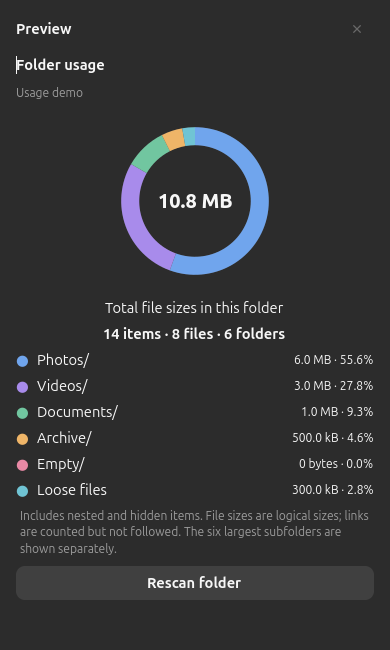
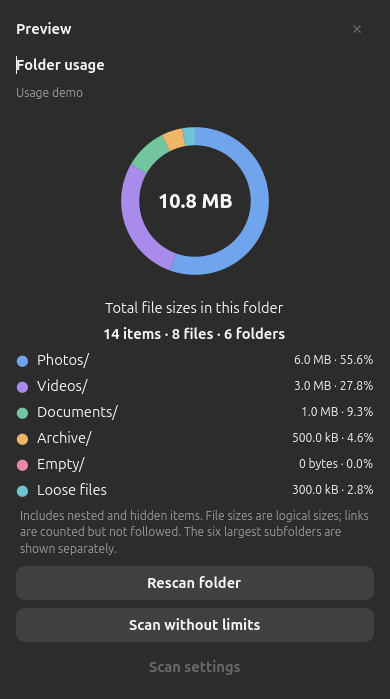
Configure folder usage limits and allow per-scan bypass

diff --git a/src/nautilus-preview-pane.c b/src/nautilus-preview-pane.c
@@ -38,13 +38,13 @@ struct _NautilusPreviewPane
     GtkLabel *message;
     GtkDrawingArea *storage_chart;
     GtkLabel *storage_label, *storage_percent, *overview_counts;
-    GtkWidget *overview_rows[NAUTILUS_USAGE_SEGMENTS], *overview_refresh;
+    GtkWidget *overview_rows[NAUTILUS_USAGE_SEGMENTS], *overview_refresh, *overview_bypass;
     GtkLabel *overview_names[NAUTILUS_USAGE_SEGMENTS], *overview_values[NAUTILUS_USAGE_SEGMENTS];
     GFile *overview_location;
     GListModel *overview_model;
     gulong overview_changed;
     guint overview_source;
-    gboolean overview_active, overview_loading;
+    gboolean overview_active, overview_loading, usage_bypass;
     GTask *overview_task;
     NautilusUsageResult usage_result;
     gint64 usage_checked;
@@ -143,16 +143,20 @@ overview_render (NautilusPreviewPane *self)
 {
     NautilusUsageResult *result = &self->usage_result;
     g_autofree char *size = g_format_size (result->bytes);
-    gtk_label_set_text (self->storage_percent, size);
+    g_autofree char *display_size = result->partial || result->running ? g_strdup_printf ("≥ %s", size) : g_strdup (size);
+    gtk_label_set_text (self->storage_percent, display_size);
     gtk_label_set_text (self->storage_label,
         result->unreadable ? "Unable to read this folder." :
-        result->running ? "Scanning… sizes and shares so far" :
+        result->running ? (self->usage_bypass ? "Scanning without item/time limits… sizes so far" : "Scanning… sizes and shares so far") :
         result->cancelled ? "Scan stopped — totals are partial." :
-        result->partial ? "Partial totals — some paths were unreadable or a scan limit was reached." :
+        result->depth_limited ? "Partial totals — a folder exceeds the supported nesting depth." :
+        result->limited ? "Partial totals — item/time limit reached. Scan without limits to recalculate." :
+        result->partial ? "Partial totals — some paths could not be read." :
         result->files + result->folders == 0 ? "This folder is empty." : "Total file sizes in this folder");
     guint64 items = result->files + result->folders;
     g_autofree char *counts = g_strdup_printf ("%" G_GUINT64_FORMAT " items · %" G_GUINT64_FORMAT
-        " files · %" G_GUINT64_FORMAT " folders", items, result->files, result->folders);
+        " files · %" G_GUINT64_FORMAT " folders%s", items, result->files, result->folders,
+        result->partial || result->running ? " · counted so far" : "");
     gtk_label_set_text (self->overview_counts, counts);
     for (guint i = 0; i < NAUTILUS_USAGE_SEGMENTS; i++)
     {
@@ -167,6 +171,7 @@ overview_render (NautilusPreviewPane *self)
         gtk_label_set_text (self->overview_values[i], value);
     }
     gtk_button_set_label (GTK_BUTTON (self->overview_refresh), result->running ? "Stop scan" : "Rescan folder");
+    gtk_widget_set_sensitive (self->overview_bypass, !result->running && !self->overview_loading);
     gtk_widget_queue_draw (GTK_WIDGET (self->storage_chart));
 }
 
@@ -204,12 +209,11 @@ overview_scan_ready (GObject *object, GAsyncResult *result, gpointer data)
     g_clear_object (&self->overview_task);
 }
 
-static gboolean
-overview_start (gpointer data)
+static void
+overview_begin (NautilusPreviewPane *self, gboolean bypass)
 {
-    NautilusPreviewPane *self = data;
-    self->overview_source = 0;
-    if (!self->overview_active || self->overview_location == NULL || self->overview_loading) return G_SOURCE_REMOVE;
+    if (!self->overview_active || self->overview_location == NULL || self->overview_loading || self->overview_task != NULL) return;
+    self->usage_bypass = bypass;
     g_clear_object (&self->cancellable);
     self->cancellable = g_cancellable_new ();
     memset (&self->usage_result, 0, sizeof self->usage_result);
@@ -218,11 +222,30 @@ overview_start (gpointer data)
     overview_render (self);
     self->overview_task = g_task_new (self, self->cancellable, overview_scan_ready, NULL);
     g_task_set_priority (self->overview_task, G_PRIORITY_LOW);
-    g_task_set_task_data (self->overview_task, nautilus_folder_usage_new (self->overview_location),
-                         (GDestroyNotify) nautilus_folder_usage_free);
+    NautilusFolderUsage *usage = nautilus_folder_usage_new (self->overview_location);
+    nautilus_folder_usage_set_limits (usage,
+        bypass ? 0 : g_settings_get_uint (nautilus_preferences, "folder-usage-item-limit"),
+        bypass ? 0 : g_settings_get_uint (nautilus_preferences, "folder-usage-time-limit"));
+    g_task_set_task_data (self->overview_task, usage, (GDestroyNotify) nautilus_folder_usage_free);
     g_task_run_in_thread (self->overview_task, overview_scan_thread);
     self->overview_source = g_timeout_add (150, overview_progress, self);
+}
+
+static gboolean
+overview_start (gpointer data)
+{
+    NautilusPreviewPane *self = data;
+    self->overview_source = 0;
+    overview_begin (self, FALSE);
     return G_SOURCE_REMOVE;
+}
+
+static void
+overview_bypass_clicked (GtkButton *button, NautilusPreviewPane *self)
+{
+    if (!self->overview_active || self->overview_loading || self->overview_task != NULL) return;
+    g_clear_handle_id (&self->overview_source, g_source_remove);
+    overview_begin (self, TRUE);
 }
 
 static void
@@ -1440,6 +1463,15 @@ nautilus_preview_pane_init (NautilusPreviewPane *self)
     self->overview_refresh = gtk_button_new_with_label ("Rescan folder");
     g_signal_connect (self->overview_refresh, "clicked", G_CALLBACK (overview_refresh_clicked), self);
     gtk_box_append (GTK_BOX (overview), self->overview_refresh);
+    self->overview_bypass = gtk_button_new_with_label ("Scan without limits");
+    gtk_widget_set_tooltip_text (self->overview_bypass,
+        "Start a fresh scan without item or time limits. Stop and cancellation remain available; the 64-level depth bound still applies.");
+    g_signal_connect (self->overview_bypass, "clicked", G_CALLBACK (overview_bypass_clicked), self);
+    gtk_box_append (GTK_BOX (overview), self->overview_bypass);
+    GtkWidget *usage_settings = gtk_button_new_with_label ("Scan settings");
+    gtk_widget_add_css_class (usage_settings, "flat");
+    gtk_actionable_set_action_name (GTK_ACTIONABLE (usage_settings), "app.preferences");
+    gtk_box_append (GTK_BOX (overview), usage_settings);
     GtkWidget *overview_scroll = gtk_scrolled_window_new ();
     gtk_scrolled_window_set_policy (GTK_SCROLLED_WINDOW (overview_scroll), GTK_POLICY_NEVER, GTK_POLICY_AUTOMATIC);
     gtk_scrolled_window_set_child (GTK_SCROLLED_WINDOW (overview_scroll), overview);

diff --git a/src/nautilus-preview-check.c b/src/nautilus-preview-check.c
@@ -3,6 +3,7 @@
 #include "nautilus-preview-pane.c"
 #undef G_LOG_DOMAIN
 #include "nautilus-window-slot.c"
+#include "nautilus-preferences-dialog.c"
 #include "nautilus-grid-cell.h"
 #include "nautilus-view-model.h"
 #include <glib/gstdio.h>
@@ -112,6 +113,13 @@ wait_for_overview (NautilusPreviewPane *pane)
     gint64 deadline = g_get_monotonic_time () + 10 * G_USEC_PER_SEC;
     while ((pane->overview_source != 0 || pane->overview_task != NULL) &&
            g_get_monotonic_time () < deadline) pump (1);
+    if (pane->overview_task != NULL)
+    {
+        NautilusUsageResult snapshot;
+        nautilus_folder_usage_snapshot (g_task_get_task_data (pane->overview_task), &snapshot);
+        g_printerr ("Overview timeout: worker_running=%d files=%" G_GUINT64_FORMAT " label=%s\n",
+            snapshot.running, snapshot.files, gtk_label_get_text (pane->storage_label));
+    }
     g_assert_cmpuint (pane->overview_source, ==, 0);
     g_assert_null (pane->overview_task);
     g_assert_false (pane->usage_result.running);
@@ -180,7 +188,9 @@ check_overview (NautilusPreviewPane *pane, GtkWidget *window, NautilusFile *text
     g_print ("PASS folder usage recursive sizes, nested counts, hidden files and loose-file grouping\n");
     g_print ("PASS usage avoids symlink traversal, special-file reads and sparse-file payloads\n");
     set_capture_path ("folder-overview.png");
+    gtk_window_set_default_size (GTK_WINDOW (window), 390, 780);
     pump (300); capture (window);
+    gtk_window_set_default_size (GTK_WINDOW (window), 390, 650);
     g_print ("PASS folder usage multicolour donut and matching size/percentage legend\n");
     gint64 checked = pane->usage_checked;
     select_file (pane, text_file);
@@ -281,6 +291,67 @@ check_overview (NautilusPreviewPane *pane, GtkWidget *window, NautilusFile *text
     g_assert_cmpuint (result.files, ==, 0);
     nautilus_folder_usage_free (usage);
     g_print ("PASS usage depth safety limit and already-cancelled scan\n");
+    g_autoptr (GtkBuilder) preferences = gtk_builder_new_from_resource (
+        "/org/gnome/nautilus/ui/nautilus-preferences-dialog.ui");
+    nautilus_preferences_dialog_setup (preferences);
+    AdwSpinRow *item_row = ADW_SPIN_ROW (gtk_builder_get_object (preferences, "folder_usage_items_row"));
+    AdwSpinRow *time_row = ADW_SPIN_ROW (gtk_builder_get_object (preferences, "folder_usage_seconds_row"));
+    g_assert_cmpfloat (adw_spin_row_get_value (item_row), ==, 5000000);
+    g_assert_cmpfloat (adw_spin_row_get_value (time_row), ==, 120);
+    adw_spin_row_set_value (item_row, 1000);
+    g_assert_cmpuint (g_settings_get_uint (nautilus_preferences, "folder-usage-item-limit"), ==, 1000);
+    g_settings_set_uint (nautilus_preferences, "folder-usage-time-limit", 240);
+    g_assert_cmpfloat (adw_spin_row_get_value (time_row), ==, 240);
+    g_print ("PASS usage preferences UI defaults and bidirectional persistent settings bindings\n");
+    g_autofree char *limited = g_build_filename (temp, "Limited", NULL);
+    g_mkdir (limited, 0700);
+    for (guint i = 0; i < 1007; i++)
+    {
+        g_autofree char *name = g_strdup_printf ("item-%u", i);
+        usage_test_file (limited, name, 1);
+    }
+    g_autoptr (GFile) limited_location = g_file_new_for_path (limited);
+    nautilus_preview_pane_set_context (pane, limited_location, NULL, FALSE);
+    nautilus_preview_pane_set_files (pane, NULL);
+    wait_for_overview (pane);
+    g_assert_cmpuint (pane->usage_result.files, ==, 1000);
+    g_assert_true (pane->usage_result.limited);
+    g_assert_true (g_str_has_prefix (gtk_label_get_text (pane->storage_percent), "≥"));
+    g_assert_nonnull (strstr (gtk_label_get_text (pane->overview_counts), "so far"));
+    g_print ("PASS configured item limit and clearly marked lower-bound values\n");
+    overview_bypass_clicked (NULL, pane);
+    g_assert_true (pane->usage_bypass);
+    g_assert_false (gtk_widget_get_sensitive (pane->overview_bypass));
+    wait_for_overview (pane);
+    g_assert_cmpuint (pane->usage_result.files, ==, 1007);
+    g_assert_cmpuint (pane->usage_result.bytes, ==, 1007);
+    g_assert_false (pane->usage_result.partial);
+    g_assert_false (g_str_has_prefix (gtk_label_get_text (pane->storage_percent), "≥"));
+    g_assert_cmpuint (g_settings_get_uint (nautilus_preferences, "folder-usage-item-limit"), ==, 1000);
+    g_print ("PASS one-scan bypass completes beyond the configured limit without changing settings\n");
+    overview_refresh_clicked (NULL, pane);
+    g_assert_false (pane->usage_bypass);
+    wait_for_overview (pane);
+    g_assert_cmpuint (pane->usage_result.files, ==, 1000);
+    g_assert_true (pane->usage_result.partial);
+    overview_bypass_clicked (NULL, pane);
+    overview_refresh_clicked (NULL, pane);
+    g_assert_true (pane->usage_result.cancelled);
+    pump (100);
+    g_assert_true (pane->usage_result.cancelled);
+    g_print ("PASS normal rescans restore limits and bypass scans remain cancellable\n");
+    g_settings_reset (nautilus_preferences, "folder-usage-item-limit");
+    g_settings_reset (nautilus_preferences, "folder-usage-time-limit");
+    usage = nautilus_folder_usage_new (deep_location);
+    nautilus_folder_usage_set_limits (usage, 0, 0);
+    g_cancellable_reset (cancel);
+    nautilus_folder_usage_scan (usage, cancel);
+    nautilus_folder_usage_snapshot (usage, &result);
+    g_assert_true (result.depth_limited);
+    g_assert_cmpuint (result.folders, ==, 64);
+    nautilus_folder_usage_free (usage);
+    g_print ("PASS bypass retains bounded traversal depth\n");
+
     /* Exercise actual slot navigation, not just the standalone widget API. */
     NautilusWindowSlot *slot = nautilus_window_slot_new (NAUTILUS_MODE_BROWSE);
     GtkWidget *slot_window = gtk_window_new ();

diff --git a/src/nautilus-folder-usage.c b/src/nautilus-folder-usage.c
@@ -4,8 +4,6 @@
 #include <stdlib.h>
 
 #define USAGE_MAX_DEPTH 64
-#define USAGE_MAX_ITEMS 200000
-#define USAGE_MAX_TIME (30 * G_USEC_PER_SEC)
 
 struct _NautilusFolderUsage
 {
@@ -15,6 +13,8 @@ struct _NautilusFolderUsage
     NautilusUsageSegment top[NAUTILUS_USAGE_TOP_FOLDERS], current;
     guint top_count, other_count, loose_count;
     guint64 other_bytes, loose_bytes;
+    guint64 item_limit;
+    guint seconds_limit;
     gint64 started, last_publish;
     gboolean current_active, halted;
 };
@@ -26,7 +26,17 @@ nautilus_folder_usage_new (GFile *location)
     usage->location = g_object_ref (location);
     g_mutex_init (&usage->mutex);
     usage->published.running = TRUE;
+    usage->item_limit = NAUTILUS_USAGE_DEFAULT_ITEMS;
+    usage->seconds_limit = NAUTILUS_USAGE_DEFAULT_SECONDS;
     return usage;
+}
+
+void
+nautilus_folder_usage_set_limits (NautilusFolderUsage *usage, guint64 items, guint seconds)
+{
+    g_return_if_fail (usage->started == 0);
+    usage->item_limit = items;
+    usage->seconds_limit = seconds;
 }
 
 void
@@ -109,8 +119,9 @@ can_continue (NautilusFolderUsage *usage, GCancellable *cancellable)
     {
         usage->totals.cancelled = usage->totals.partial = usage->halted = TRUE;
     }
-    else if (usage->totals.files + usage->totals.folders >= USAGE_MAX_ITEMS ||
-             g_get_monotonic_time () - usage->started >= USAGE_MAX_TIME)
+    else if ((usage->item_limit > 0 && usage->totals.files + usage->totals.folders >= usage->item_limit) ||
+             (usage->seconds_limit > 0 && g_get_monotonic_time () - usage->started >=
+              (gint64) usage->seconds_limit * G_USEC_PER_SEC))
     {
         usage->totals.limited = usage->totals.partial = usage->halted = TRUE;
     }
@@ -135,6 +146,7 @@ scan_directory (NautilusFolderUsage *usage, GFile *directory, guint depth, GCanc
     if (!can_continue (usage, cancellable)) return;
     if (depth >= USAGE_MAX_DEPTH)
     {
+        usage->totals.depth_limited = TRUE;
         usage->totals.limited = usage->totals.partial = TRUE;
         usage->totals.skipped++;
         return;

diff --git a/src/nautilus-folder-usage.h b/src/nautilus-folder-usage.h
@@ -2,6 +2,8 @@
 #pragma once
 #include <gio/gio.h>
 
+#define NAUTILUS_USAGE_DEFAULT_ITEMS 5000000
+#define NAUTILUS_USAGE_DEFAULT_SECONDS 120
 #define NAUTILUS_USAGE_TOP_FOLDERS 6
 #define NAUTILUS_USAGE_SEGMENTS (NAUTILUS_USAGE_TOP_FOLDERS + 2)
 
@@ -16,11 +18,13 @@ typedef struct
     guint64 bytes, files, folders, skipped;
     guint n_segments;
     NautilusUsageSegment segments[NAUTILUS_USAGE_SEGMENTS];
-    gboolean running, partial, unreadable, limited, cancelled;
+    gboolean running, partial, unreadable, limited, cancelled, depth_limited;
 } NautilusUsageResult;
 
 typedef struct _NautilusFolderUsage NautilusFolderUsage;
 NautilusFolderUsage *nautilus_folder_usage_new (GFile *location);
+/* Set before starting the worker; zero disables that limit. Depth remains bounded. */
+void nautilus_folder_usage_set_limits (NautilusFolderUsage *usage, guint64 items, guint seconds);
 void nautilus_folder_usage_free (NautilusFolderUsage *usage);
 /* Run on a worker thread. Snapshot is safe to call from the UI thread. */
 void nautilus_folder_usage_scan (NautilusFolderUsage *usage, GCancellable *cancellable);

diff --git a/src/nautilus-preferences-dialog.c b/src/nautilus-preferences-dialog.c
@@ -185,6 +185,11 @@ nautilus_preferences_dialog_setup (GtkBuilder *builder)
                        NAUTILUS_PREFERENCES_DIALOG_DELETE_PERMANENTLY_WIDGET,
                        NAUTILUS_PREFERENCES_SHOW_DELETE_PERMANENTLY);
 
+    g_settings_bind (nautilus_preferences, "folder-usage-item-limit",
+                     gtk_builder_get_object (builder, "folder_usage_items_row"), "value", G_SETTINGS_BIND_DEFAULT);
+    g_settings_bind (nautilus_preferences, "folder-usage-time-limit",
+                     gtk_builder_get_object (builder, "folder_usage_seconds_row"), "value", G_SETTINGS_BIND_DEFAULT);
+
     setup_detailed_date (builder);
 
     bind_builder_combo_row (builder, nautilus_preferences,

diff --git a/docs/ARCHITECTURE.md b/docs/ARCHITECTURE.md
@@ -39,6 +39,6 @@ ZIP previews reuse the folder list/model and paging controls with a separate lib
 
 The idle folder overview receives the current location/loading state from the slot. `src/nautilus-folder-usage.c` performs a sequential depth-first GIO metadata scan on a GTask worker. It sums logical sizes of regular files, counts all descendants (including hidden items), does not request payloads, and enumerates child metadata with NOFOLLOW_SYMLINKS. Child links and special files count as items but add zero bytes. Hard links count per path. This is a live metadata snapshot, not an atomic filesystem snapshot; concurrent mutations can affect totals.
 
-The worker retains six largest immediate subfolder aggregates, a remainder, and loose files. A mutex protects one fixed-size progress snapshot; the UI reads it at most every 150 ms and reuses eight legend rows plus a native Cairo donut. Memory scales with traversal depth rather than number of descendants, although GIO backends can internally prefetch. Depth is limited to 64 open directory enumerators, item count to 200,000, and elapsed scan time to 30 seconds checked between GIO operations. Backend operations and cursor cleanup can exceed that time on an unresponsive server. Unreadable paths and limits mark results partial; cancellation interrupts supported GIO operations. No widget is accessed from the worker.
+The worker retains six largest immediate subfolder aggregates, a remainder, and loose files. A mutex protects one fixed-size progress snapshot; the UI reads it at most every 150 ms and reuses eight legend rows plus a native Cairo donut. Memory scales with traversal depth rather than number of descendants, although GIO backends can internally prefetch. Depth is limited to 64 open directory enumerators, item count defaults to 5 million, and elapsed scan time defaults to 120 seconds checked between GIO operations. Item/time bounds come from GSettings (`folder-usage-item-limit`, `folder-usage-time-limit`) at scan start and are editable through bound AdwSpinRow preferences. Supported settings ranges are 1,000–100 million items and 1–3,600 seconds. The worker receives an immutable copy before starting; preference changes affect subsequent scans. A one-scan bypass passes zero for these two bounds; depth, overflow protection, and cancellation remain enforced. Normal Rescan/automatic scans restore configured bounds. Partial sizes show a lower-bound marker and counts explicitly describe items scanned so far. Backend operations and cursor cleanup can exceed that time on an unresponsive server. Unreadable paths and limits mark results partial; cancellation interrupts supported GIO operations. No widget is accessed from the worker.
 
 Local scans start after a 450 ms debounce and wait for the main folder view to finish loading. Network scans require Calculate folder usage. Selection, navigation, hiding, or disposal cancel work and remove progress/debounce sources. Task-identity checks reject stale completions. Stop preserves partial totals and Rescan starts a fresh traversal. Completed results are cached for 30 seconds per context on restoration, with no periodic scan. Existing view-model changes invalidate this cache without restarting a running traversal; a completed view offers Rescan. Model handlers are disconnected on context changes/disposal. Virtual location views keep the selection prompt.

diff --git a/README.md b/README.md
@@ -16,7 +16,7 @@ Clear the selection to see how much space the current folder’s contents use. A
 
 The metadata scan runs on a background worker after a short delay, with live progress, **Stop scan**, and **Rescan folder**. Selecting or hovering over an item shows its preview; clearing selection or leaving a hover restores the overview. Completed results are cached for 30 seconds when returning to the same folder. Network folders offer **Calculate folder usage** instead of scanning automatically. Virtual views such as Recent and Search keep the selection prompt.
 
-Sizes are logical file sizes, not allocated disk blocks. Child symlinks are counted without traversing their targets, and links/special files add no size. Hard-linked files count once per listed path. Unreadable paths and limits (200,000 items, 64 directory levels, or 30 seconds checked between operations) produce clearly labelled partial totals. The scan keeps only bounded aggregates and directory cursors, rather than a list of every descendant.
+Sizes are logical file sizes, not allocated disk blocks. Child symlinks are counted without traversing their targets, and links/special files add no size. Hard-linked files count once per listed path. The default scan limits are **5 million items and 120 seconds**, configurable in **Preferences → Folder Usage Preview** (also available through **Scan settings** in the pane). Changes apply to the next scan. **Scan without limits** starts a fresh scan that bypasses the item/time limits once; normal rescans restore your configured limits. Stop, cancellation, and the 64-level traversal-depth bound remain in effect. Time limits are checked between metadata operations. Unreadable paths and limits produce clearly labelled partial totals, with **≥** on the size and “counted so far” on item counts. The scan keeps only bounded aggregates and directory cursors, rather than a list of every descendant.
 
 <img src="docs/screenshots/folder-overview.png" alt="Folder usage donut showing subfolder sizes, percentages, loose files, and total item counts" width="390">
 

diff --git a/CHANGELOG.md b/CHANGELOG.md
@@ -2,6 +2,8 @@
 
 ## Unreleased
 
+- Raised folder-usage defaults to 5 million items / 120 seconds, with persistent item/time controls under Preferences → Folder Usage Preview and a per-scan bypass button. Partial sizes now show ≥ and item counts say counted so far; Stop/cancellation and bounded traversal depth remain available.
+
 - An unselected folder now shows a coloured breakdown of its subfolder sizes, loose files, total size, and recursive item count. Metadata scans run in the background with bounded aggregates, cancellation, progress, Stop/Rescan controls, short-lived caching, network opt-in, and labelled partial totals.
 
 - Local ZIP/ZIP64 archive contents now preview in 32-entry pages without extraction, with stored paths, uncompressed sizes, encrypted-entry labels, and bounded central-directory metadata.
